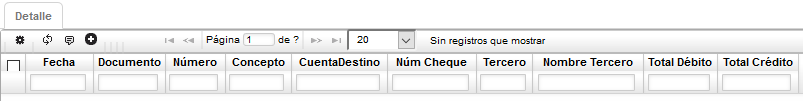
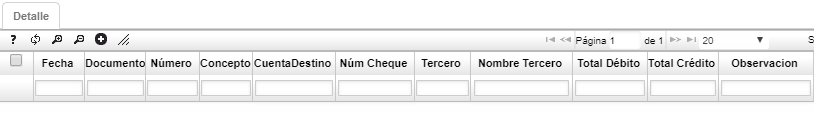
tssp

Changed region(s): [[0.0, 0.2376, 1.0, 0.9505], [0.0, 0.0891, 0.0934, 0.2079]]

diff --git a/Operacion/erp/tesoreria/tsaldo/tssp.md b/Operacion/erp/tesoreria/tsaldo/tssp.md
@@ -21,29 +21,27 @@ Se puede consultar por Periodo, Año y Ubicación.
 **Libro:** indicar el libro contable del cual se desea consultar. Libro 1 - IFRS, libro 0 - LOCAL.  
 **Ubicación:** Indicar la ubicación de la cual se desea realizar la consulta.  
 **Cuenta:** Cuenta contable de la cual se realiza la consulta.  
-**Moneda:** muestra el tipo de moneda utilizada. Los tipos de moneda son parametrizables en la aplicación **BMON**.
+**Moneda:** muestra el tipo de moneda utilizada. Los tipos de moneda son parametrizables en la aplicación **BMON**.  
 **Anterior:** Valor numérico de la cuenta antes de iniciar el periodo.  
 **Débito:** Valor numérico de movimientos debito realizados durante el periodo.  
 **Crédito:** Valor numérico de movimientos crédito realizados durante el periodo.  
 **Saldo:** Valor numérico con el que queda la cuenta al final del periodo.  
-
 
 En el detalle de la aplicación se muestran específicamente cada uno de los movimientos que está afectando el saldo de las respectivas ubicaciones.  
 
 ![](TSSP2.png)
 
 
-**Fecha:** fecha del movimiento.
+**Fecha:** fecha del movimiento.  
 **Documento:** Documentos que soportan el movimiento del maestro.  
 **Número:** Número de los documentos.  
 **Concepto:** Conceptos que se registraron para cada documento.  
 **Cuenta Destino:** Cuenta contable de destino relacionada con el movimiento consultado.  
-**Núm Cheque:** número de cheque asociado al movimiento.
+**Núm Cheque:** número de cheque asociado al movimiento.  
 **Tercero:** número de identificación del tercero asociado al movimiento que afecta el saldo consultado.  
-**Total Débito:** Valor numérico del débito del movimiento que está afectando el saldo. 
-**Total Crédito:** Valor numérico del crédito del movimiento que está afectando el saldo. 
-
-
+**Total Débito:** Valor numérico del débito del movimiento que está afectando el saldo.  
+**Total Crédito:** Valor numérico del crédito del movimiento que está afectando el saldo.  
+**Observación:**  permite registrar información adicional a la causación.  
 
 
 
